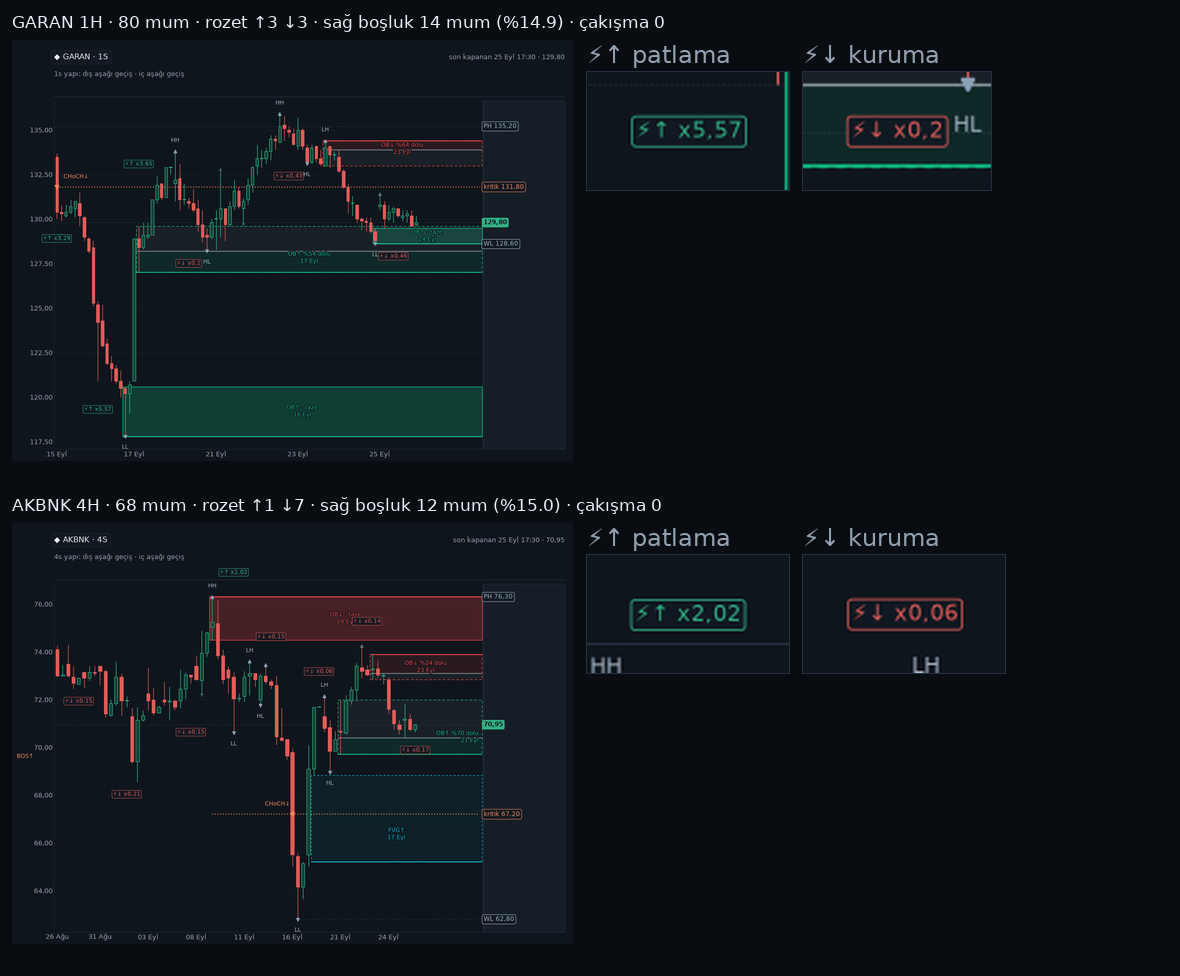
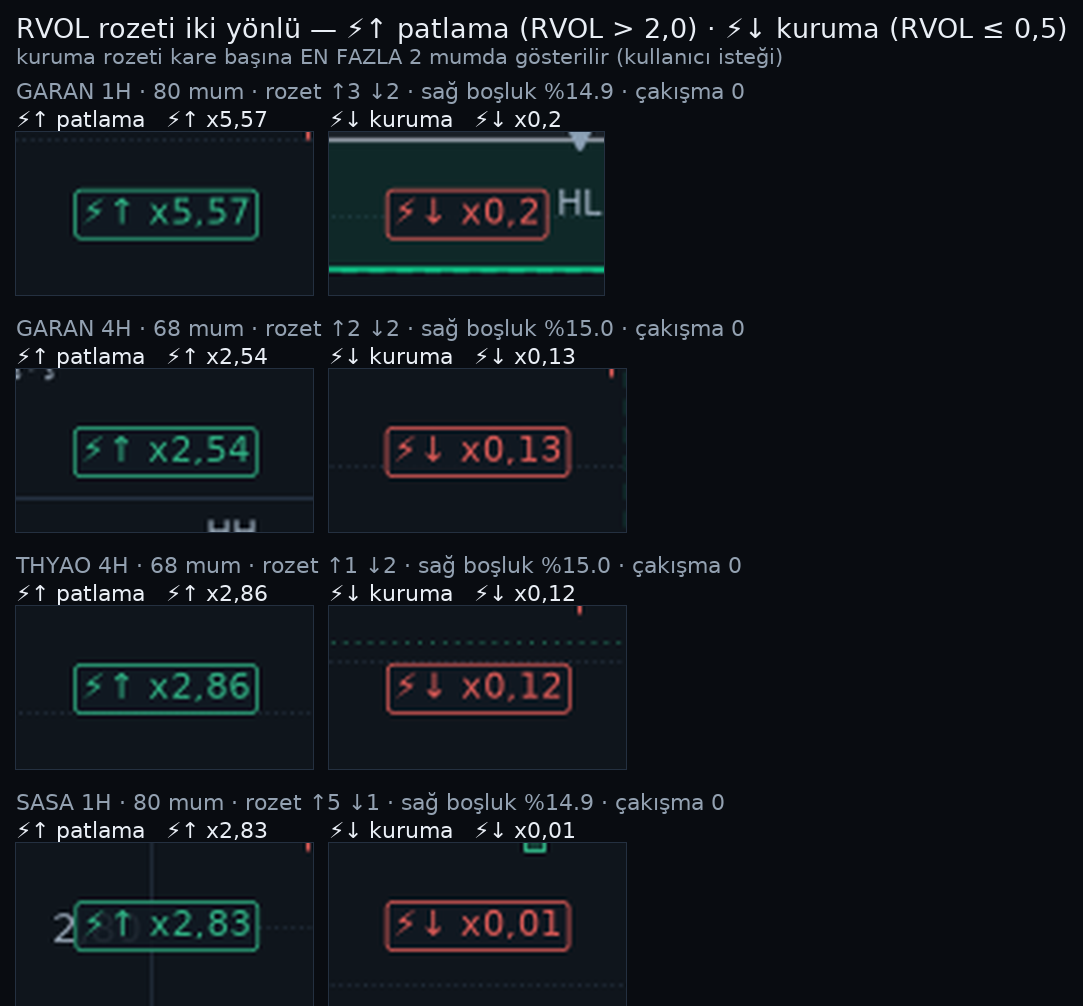
Kuruma rozeti tavanı: kare başına en fazla 2 (kullanıcı isteği)
Kullanıcı: "ama çok fazla etiket olmamalı bu sebepten en fazla 2 tane
ekleyebiliriz". Ölçüm haklıydı: kural ilk yazıldığında sakin 4s karelerinde ↓7'ye
kadar çıkıyordu (GARAN/TUPRS/AKBNK 4s).

- `rvol_rozet_dusus_maks` = 2: en sert iki kuruma seçilir; patlamalar kalan
  bütçeyi (`rvol_rozet_maks` = 8) doldurur.
- `GRAFIK_RVOL_ROZET_DUSUS_MAKS` ortam anahtarı (0 = kuruma rozeti kapalı).
- Kare başına rozet 3-6'ya indi (11 gerçek karede ölçüldü, hepsinde
  `mum_cakisan == 0`): GARAN 1s ↑3 ↓2 · GARAN 4s ↑4 ↓2 · AKBNK 4s ↑1 ↓2 ·
  THYAO 4s ↑1 ↓2 · SASA 1s ↑5 ↓1 · EREGL 1g ↑0 ↓2.
- Sağ boşluk %15'te sabit kaldı (kullanıcı onayı).

Testler: `pytest -q` → 1269 geçti, 44 atlandı (yeni: kuruma tavanı + ortam
anahtarı testleri). Doküman: `GRAFIK_TASARIM.md §42.1`; `.env.example` ve
`RENDER_DEPLOY.md` güncel; `docs/ornek_rozet_yon.png` referans sayfası eklendi.

diff --git a/grafik.py b/grafik.py
@@ -234,6 +234,11 @@ SABITLER_TABAN: dict[str, Any] = {
     # 2026-10-16 (kullanıcı): rozet artık İKİ YÖNLÜ. `⚡↑ x2,5` hacim patlaması,
     # `⚡↓ x0,5` hacim kuruması. Yön oku metnin kendisinde (renk tek kanal değil).
     "rvol_rozet_esik_dusuk": 0.5,     # ⚡↓ rozeti: RVOL bu eşiğin ALTINDA veya EŞİTSE
+    # Kullanıcı (2026-10-16): "çok fazla etiket olmamalı, en fazla 2 tane
+    # ekleyebiliriz". Kuruma rozeti kare başına 2'yi geçmez (ölçüm: sakin 4s
+    # karesinde ↓7'ye kadar çıkıp kare rozet kalabalığına dönüyordu); en sert
+    # iki kuruma seçilir. Patlamalar kalan yeri doldurur (`rvol_rozet_maks`).
+    "rvol_rozet_dusus_maks": 2,
     "rvol_rozet_maks": 8,             # kareyi rozet kalabalığına boğma (iki yön toplamı)
     "rvol_rozet_ara": 7,              # iki rozet arasında en az bar (üst üste binmesin)
     "katmanlar": ("formasyon", "ob", "fvg", "ms", "serit"),
@@ -1948,8 +1953,10 @@ def _rvol_rozetleri(ax, goruntu: Mapping[str, Any], n: int,
     kutunun kenarı komşu gövdenin 1 px yanına düşüyor ve `mum_cakisan` kapısı
     haklı olarak kırmızı yanıyordu (ölçüm: GARAN 4s `⚡↓ x0,13` · TUPRS 4s).
 
-    Dönen: `{"artis": n, "dusus": m}` — sessiz kayıp yok, sayaçlar
-    `meta["serit"]["rozet_artis"] / ["rozet_dusus"]`e yazılır.
+    Kuruma rozeti TAVANLIDIR: `rvol_rozet_dusus_maks` (2) — kullanıcı isteği
+    ("çok fazla etiket olmamalı"). En sert iki kuruma yazılır; patlamalar kalan
+    yeri doldurur. Dönen: `{"artis": n, "dusus": m}` — sessiz kayıp yok,
+    sayaçlar `meta["serit"]["rozet_artis"] / ["rozet_dusus"]`e yazılır.
     """
     serit = goruntu.get("serit") or {}
     degerler = list(serit.get("degerler") or [])
@@ -1996,18 +2003,18 @@ def _rvol_rozetleri(ax, goruntu: Mapping[str, Any], n: int,
             dususler.append((1.0 / float(ham), i, float(ham), -1))
     artislar.sort(key=lambda t: (-t[0], t[1]))
     dususler.sort(key=lambda t: (-t[0], t[1]))
-    # Bütçe payı: en sert `maks // 2` patlama ve `maks // 2` kuruma YER AYIRT EDİLİR.
-    # Neden: tamamen sertliğe göre sıralansa sakin bir penceredeki 8 kuruma
-    # (x0,15 ≈ sertlik 6,7) belirgin bir hacim patlamasını (x2,2) kareden atardı —
-    # asıl sinyal kaybolurdu. Kalan yer yine en sert sapmalara gider.
-    # Sıra: önce ayrılan pay (en sert sapmalar), sonra kalan havuz. HAVUZ
-    # KIRPILMAZ — aralık kuralı adayları eledikçe sırada başka mum bulunmalı
-    # (kırpma + aralık birlikte aday yokluğundan rozet sayısını 8'den 2'ye
-    # düşürüyordu: komşu 8 mum seçilip 7 bar aralık hepsini eliyordu).
-    pay = max(1, maks // 2)
-    ilk = sorted(artislar[:pay] + dususler[:pay], key=lambda t: (-t[0], t[1]))
-    kalan = sorted(artislar[pay:] + dususler[pay:], key=lambda t: (-t[0], t[1]))
-    adaylar = ilk + kalan
+    # Bütçe iki kurala bağlı:
+    #   1. Kuruma rozeti kare başına `rvol_rozet_dusus_maks` (2) TAVANI — kullanıcı:
+    #      "çok fazla etiket olmamalı, en fazla 2 tane ekleyebiliriz" (ölçüm: sakin
+    #      4s karesinde ↓7'ye çıkıyordu). En sert iki kuruma seçilir.
+    #   2. Toplam `rvol_rozet_maks` (8) — patlamalar kalan yeri doldurur, böylece
+    #      birkaç sert kuruma belirgin bir hacim patlamasını kareden atamaz.
+    # Havuzda sıra sertliğe göre (patlamada `v`, kurumada `1/v`); HAVUZ KIRPILMAZ,
+    # çünkü aralık kuralı adayları eledikçe sıradaki mum devreye girmeli (kırpma +
+    # aralık birlikte rozet sayısını 8'den 2'ye düşürüyordu).
+    dusus_maks = max(0, int(_ortam_sayi("GRAFIK_RVOL_ROZET_DUSUS_MAKS",
+                                        float(SABITLER["rvol_rozet_dusus_maks"]))))
+    adaylar = sorted(artislar + dususler[:dusus_maks], key=lambda t: (-t[0], t[1]))
     cizilen = 0
     sayac = {"artis": 0, "dusus": 0}
     yerlesik: list[int] = []

diff --git a/test_grafik_faz_kullanici.py b/test_grafik_faz_kullanici.py
@@ -200,12 +200,11 @@ def test_faz1_rozet_metni_yuvarlamada_yanlis_yon_gostermez():
 
 
 def test_faz1_rozet_butcesi_iki_yone_yer_ayirir():
-    """Bütçe payı: sakin penceredeki sert kurumalar hacim PATLAMASINI kareden atamaz.
+    """Sakin penceredeki sert kurumalar hacim PATLAMASINI kareden atamaz.
 
     Neden: sertliğe göre tam sıralamada 8 kuruma (x0,1 ≈ sertlik 10) belirgin bir
     patlamayı (x2,2 = sertlik 2,2) tamamen dışarıda bırakıyordu — asıl sinyal
-    (kırılımı hacmin teyit etmesi) kaybolurdu. `maks // 2` şer payı her yöne
-    ayrılır, kalan yer en sert sapmalara gider.
+    (kırılımı hacmin teyit etmesi) kaybolurdu.
     """
     fig, ax = _eksen(60)
     degerler = [1.0] * 60
@@ -214,8 +213,37 @@ def test_faz1_rozet_butcesi_iki_yone_yer_ayirir():
     degerler[57] = 2.2                               # tek ve zayıf patlama
     sayac = grafik._rvol_rozetleri(ax, {"serit": {"degerler": degerler}},
                                    60, [99.0] * 60)
-    assert sayac["artis"] == 1 and sayac["dusus"] >= 1
+    assert sayac["artis"] == 1
+    assert 1 <= sayac["dusus"] <= int(grafik.SABITLER["rvol_rozet_dusus_maks"])
     assert "⚡↑ x2,2" in _rozetler(ax)
+
+
+def test_faz1_kuruma_rozeti_en_fazla_iki(monkeypatch):
+    """Kullanıcı (2026-10-16): "çok fazla etiket olmamalı, en fazla 2 tane".
+
+    Kuruma rozeti kare başına 2 TAVAN; en sert iki kuruma seçilir (sakin 4s
+    karesinde ↓7'ye çıkıyordu). Patlamalar kalan bütçeyi doldurur.
+    """
+    tavan = int(grafik.SABITLER["rvol_rozet_dusus_maks"])
+    assert tavan == 2
+    fig, ax = _eksen(60)
+    degerler = [1.0] * 60
+    for i in range(0, 56, 7):                        # 8 kuruma, farklı sertlikte
+        degerler[i] = 0.1 + 0.01 * (i // 7)
+    degerler[55] = 0.05                              # en sert kuruma (sertlik 20)
+    sayac = grafik._rvol_rozetleri(ax, {"serit": {"degerler": degerler}},
+                                   60, [99.0] * 60)
+    assert sayac == {"artis": 0, "dusus": tavan}
+    metinler = _rozetler(ax)
+    assert len(metinler) == tavan
+    assert "⚡↓ x0,05" in metinler                    # EN SERT kuruma her zaman girer
+    # Tavan ortamla değiştirilebilir; 0 → kuruma rozeti kapanır, patlama kalır.
+    monkeypatch.setenv("GRAFIK_RVOL_ROZET_DUSUS_MAKS", "0")
+    fig2, ax2 = _eksen(60)
+    karisik = [3.0] * 60
+    karisik[10] = 0.2
+    assert grafik._rvol_rozetleri(ax2, {"serit": {"degerler": karisik}},
+                                  60, [99.0] * 60) == {"artis": 8, "dusus": 0}
 
 
 def test_faz1_rozet_kapak_ve_esik_alti_cizilmez():

diff --git a/GRAFIK_TASARIM.md b/GRAFIK_TASARIM.md
@@ -1833,17 +1833,24 @@ tek yönlüydü (yalnız `RVOL > 2,0`), hacim KURUMASI karede hiç görünmüyor
 - **Metin 2 basamak + sıfır kırpma** (`_rvol_katı`): `x2,5` · `x0,5` · `x0,96`.
   Tek basamak `x0,96`ı `x1,0` yapardı — kuruma "normal" görünürdü (yanlış bilgi);
   `x2,04` de eşikle çelişmesin diye `x2,0` değil `x2,04` yazılır.
-- **Bütçe iki yöne paylaştırılır.** Sıra: her yöne `maks // 2` şer pay ayrılır,
-  kalan yer en sert sapmalara gider (sertlik: patlamada `v`, kurumada `1/v`).
-  Neden: tamamen sertliğe göre sıralamada 8 kuruma (x0,1 ≈ sertlik 10) belirgin bir
-  hacim patlamasını (x2,2) kareden atıyordu — asıl sinyal (kırılımı hacmin teyidi)
+- **Kuruma rozeti TAVANLI: `rvol_rozet_dusus_maks` = 2.** Kullanıcı ikinci turda
+  sınırı koydu: *"çok fazla etiket olmamalı, bu sebepten en fazla 2 tane
+  ekleyebiliriz"*. Ölçüm haklıydı: kural ilk yazıldığında sakin 4s karelerinde
+  ↓7'ye kadar çıkıyordu (GARAN/TUPRS/AKBNK 4s). En sert iki kuruma seçilir,
+  patlamalar kalan bütçeyi doldurur.
+- **Bütçe paylaşımı.** Aday havuzu: tüm patlamalar + en sert 2 kuruma; sıra
+  `|log(RVOL)|` mantığıyla sertliğe göre (patlamada `v`, kurumada `1/v`). Neden
+  sertlik sırası: tamamen kuruma ağırlıklı bir sıralamada belirgin bir hacim
+  patlaması (x2,2) kareden atılıyordu — asıl sinyal (kırılımı hacmin teyidi)
   kaybolurdu. Havuz KIRPILMAZ: aralık kuralı eledikçe sıradaki mum devreye girer
   (kırpma + aralık birlikte rozet sayısını 8'den 2'ye düşürüyordu).
 - **Komşuluk yarıçapı bar değil piksel:** `ceil(0,5 × rozet_px / px_per_bar) + 1`.
   Sabit ±4 bar, 120 mumluk 4s karesinde (px/bar ≈ 5,8) rozeti komşu gövdenin 1 px
   yanına koyuyordu ve `mum_cakisan` kapısı kırmızı yanıyordu.
-- **Eşikler ortamla ayarlanır:** `GRAFIK_RVOL_ROZET_ESIK` (2,0) ve
-  `GRAFIK_RVOL_ROZET_ESIK_DUSUK` (0,5). Kuruma rozeti gürültülü gelirse 0,35 yapın.
+- **Eşikler ve tavan ortamla ayarlanır:** `GRAFIK_RVOL_ROZET_ESIK` (2,0),
+  `GRAFIK_RVOL_ROZET_ESIK_DUSUK` (0,5), `GRAFIK_RVOL_ROZET_DUSUS_MAKS` (2;
+  `0` = kuruma rozeti kapalı). Kuruma rozeti yine gürültülü gelirse eşiği 0,35
+  yapın ya da tavanı 1'e indirin.
 - **Sağ boşluk %15'te kalıyor** (kullanıcı onayı): `sag_bosluk_orani` 0,15;
   pencere %10-20 yalnız otomatik kuralda kırpar.
 
@@ -1854,9 +1861,10 @@ hangi yönden kaç rozet çıktığı sessizce kaybolmaz, ölçümle doğrulanı
 
 - `pytest -q` → **1267 geçti, 44 atlandı** (yeni: iki yön, eşik sınırı, hacimsiz
   bar, metin yuvarlaması, bütçe payı, ortam eşikleri).
-- Gerçek önbellek: GARAN 1s `↑3 ↓3` · GARAN 4s `↑3 ↓5` · TUPRS 4s `↑3 ↓5` ·
-  AKBNK 4s `↑1 ↓7` · THYAO 4s `↑1 ↓6` · SASA 1s `↑3 ↓5` — hepsinde
-  `mum_cakisan == 0`.
+- Gerçek önbellek (tavan sonrası), 11 karede `mum_cakisan == 0`: GARAN 1s `↑3 ↓2` ·
+  GARAN 4s `↑4 ↓2` · TUPRS 4s `↑4 ↓2` · AKBNK 4s `↑1 ↓2` · THYAO 4s `↑1 ↓2` ·
+  SASA 1s `↑5 ↓1` · KCHOL 1s `↑3 ↓1` · EREGL 1g `↑0 ↓2`. Kare başına rozet
+  sayısı 8 → 3-6'ya indi (kullanıcı: "çok fazla etiket olmamalı").
 - Yakın plan doğrulama sayfası: rozetler 1s karede okunur, çipler mumların üstüne
   binmiyor (komşuluk yarıçapı düzeltmesi öncesi/sonrası ölçüldü).
 

diff --git a/RENDER_DEPLOY.md b/RENDER_DEPLOY.md
@@ -807,6 +807,7 @@ Self-calibration (botun kendi skorunu otomatik değiştirmesi) public öncesi ka
 | `GRAFIK_HACIM_PANELI` | `0` (kapalı) — kaldırılan alt hacim kulvarını geri getirir; hacim yalnız sıra dışı mumların altında YÖNLÜ rozetle gösterilir: `⚡↑ x2,5` patlama (RVOL > 2,0×), `⚡↓ x0,5` kuruma (RVOL ≤ 0,5×) | Hayır |
 | `GRAFIK_RVOL_ROZET_ESIK` | `2.0` — bu RVOL üstü mumlara `⚡↑` rozeti (patlama) | Hayır |
 | `GRAFIK_RVOL_ROZET_ESIK_DUSUK` | `0.5` — bu RVOL altı/eşit mumlara `⚡↓` rozeti (kuruma); `0` yazarsanız kapatır | Hayır |
+| `GRAFIK_RVOL_ROZET_DUSUS_MAKS` | `2` — kuruma (`⚡↓`) rozeti kare başına en fazla kaç mumda görünür (en sert kurumalar seçilir); `0` = kuruma rozeti kapalı | Hayır |
 | `GRAFIK_LEJANT_KARE` | `0` (kapalı) — lejant/dipnot bloğunu kare içine geri koyar (varsayılan: bu bilgiler kare altı caption dipnotuna gider) | Hayır |
 | `KARNE_HORIZON_BAR` | `10` — sinyalden sonra izlenen bar sayısı | Hayır |
 | `DATA_DIR` | Kalıcı veri dizini. Render'da varsayılan `/tmp/formation-bot-data` (repo diski geçici; kalıcı veri Supabase'de). Kalıcı disk bağlarsanız buradan verin | Hayır |
